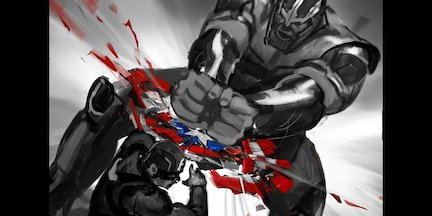
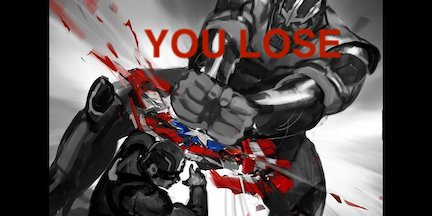
Update Pictures with Words

Changed region(s): [[0.331, 0.1111, 0.8125, 0.2778]]

diff --git a/1082project/src/edu/game/Interface/GameAction.java b/1082project/src/edu/game/Interface/GameAction.java
@@ -80,6 +80,8 @@ public class GameAction implements ActionListener{
 		if (GameGui.getNewGame().human.getLife() == 0 
 				&& GameGui.getNewGame().computer.getLife() == 0) {
 			GameGui.getTextArea().append("Draw!!\n");
+			ImageIcon draw = new ImageIcon("draw.jpg");
+			GameGui.addFirstImage(draw);
 			GameGui.addNewGameButton();
 		} else if (GameGui.getNewGame().human.getLife() == 0) {
 			GameGui.getTextArea().append("YOU LOSE!!\n");
